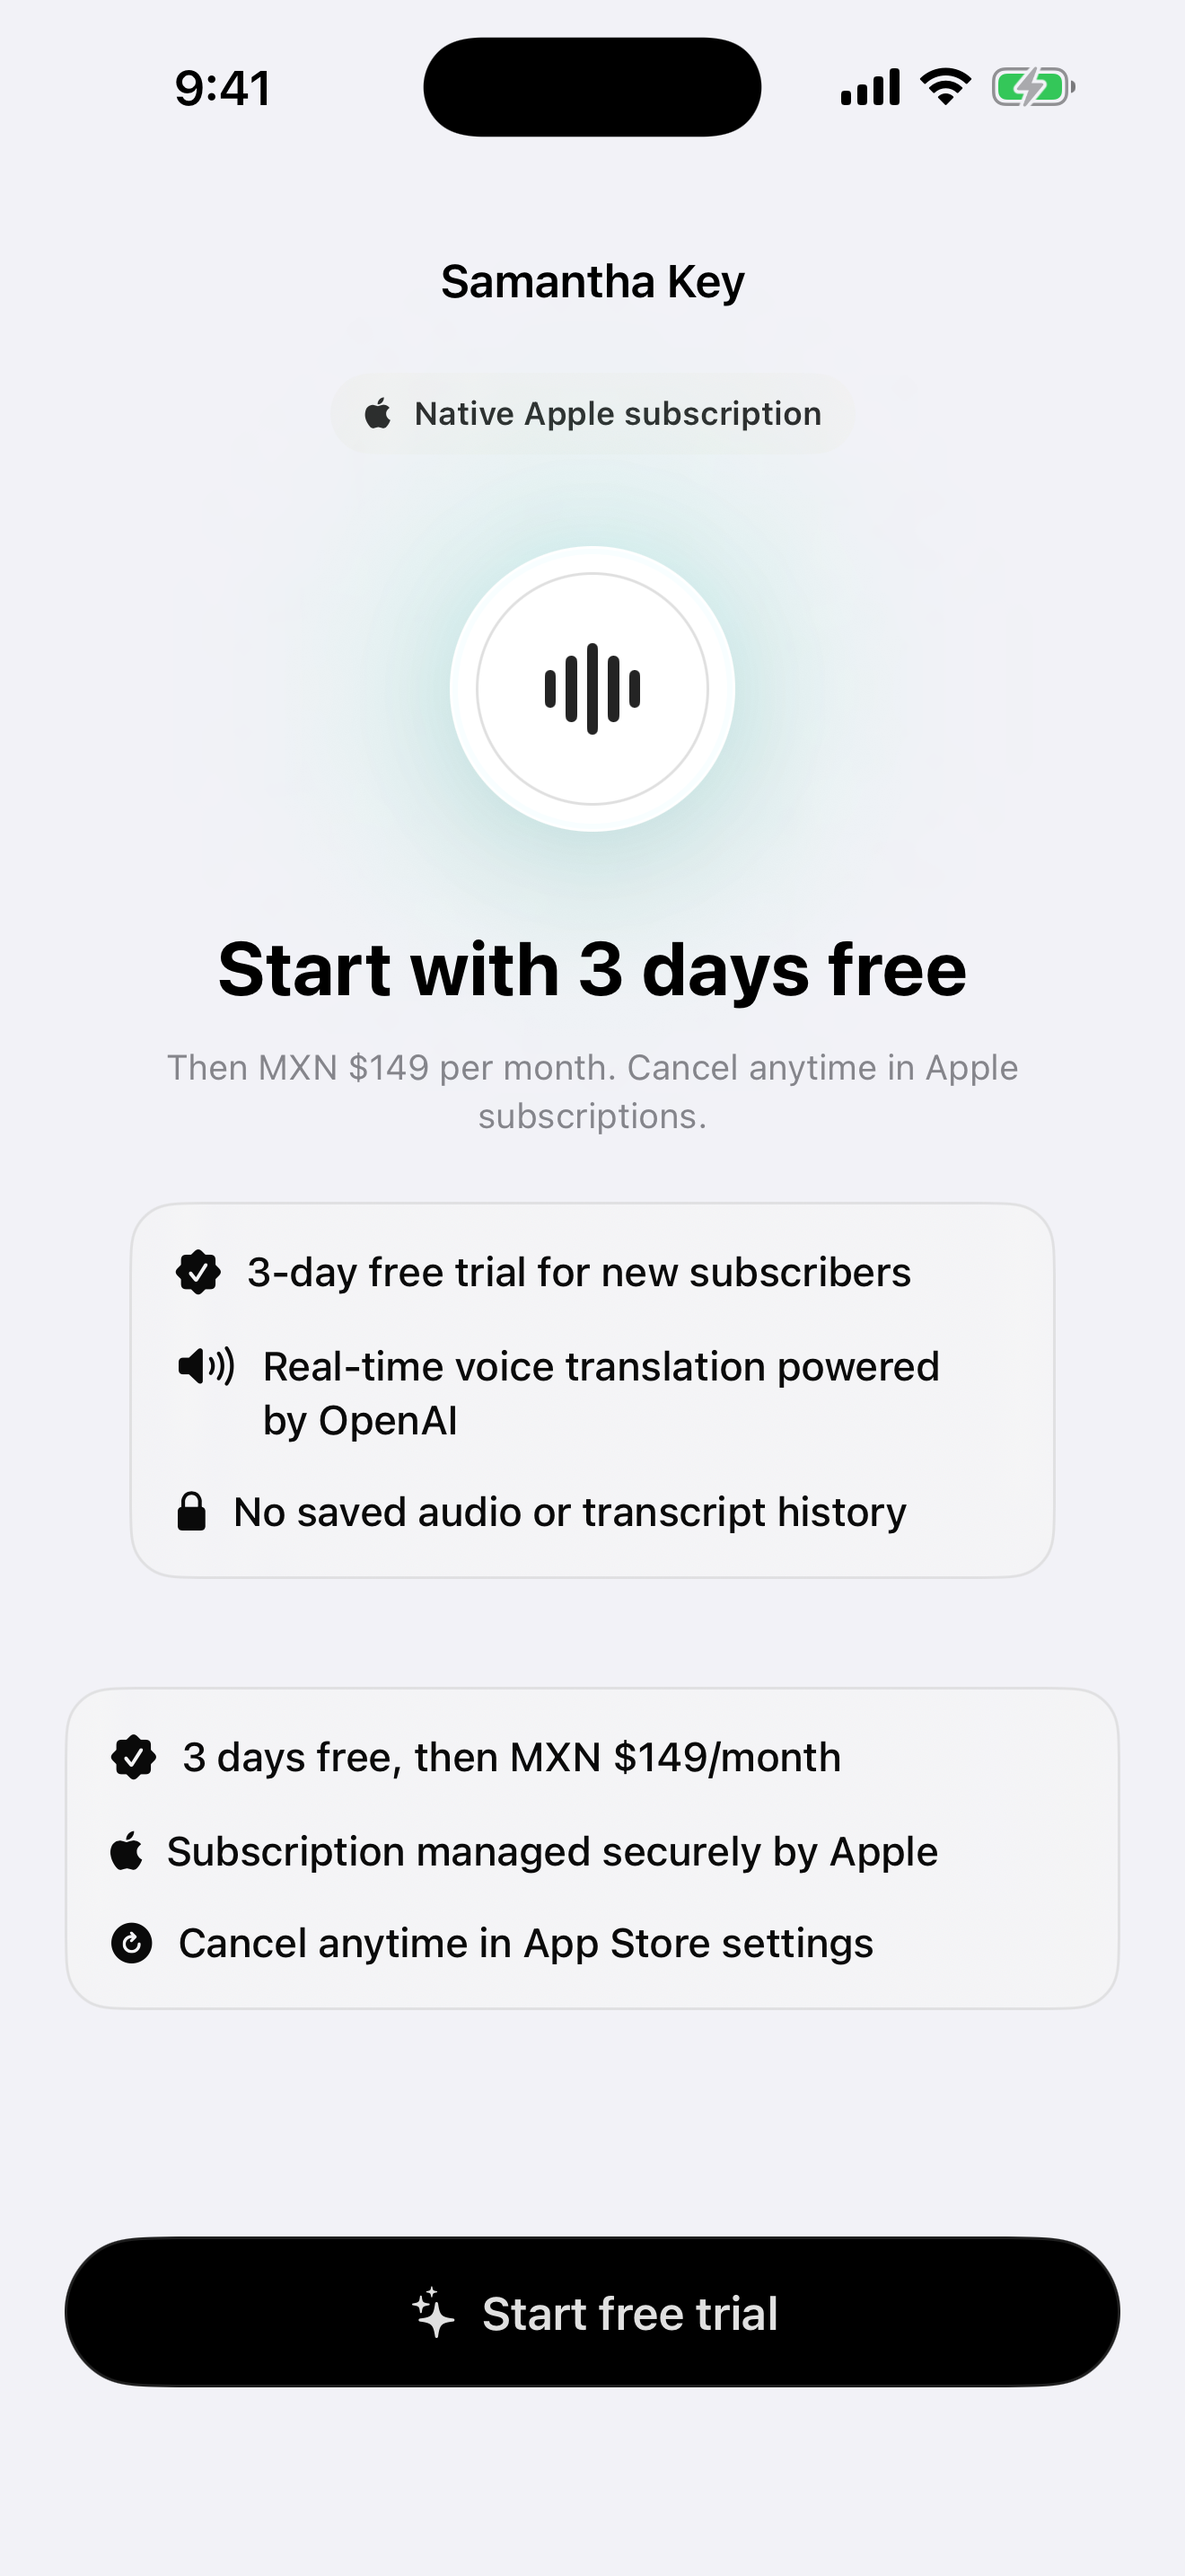
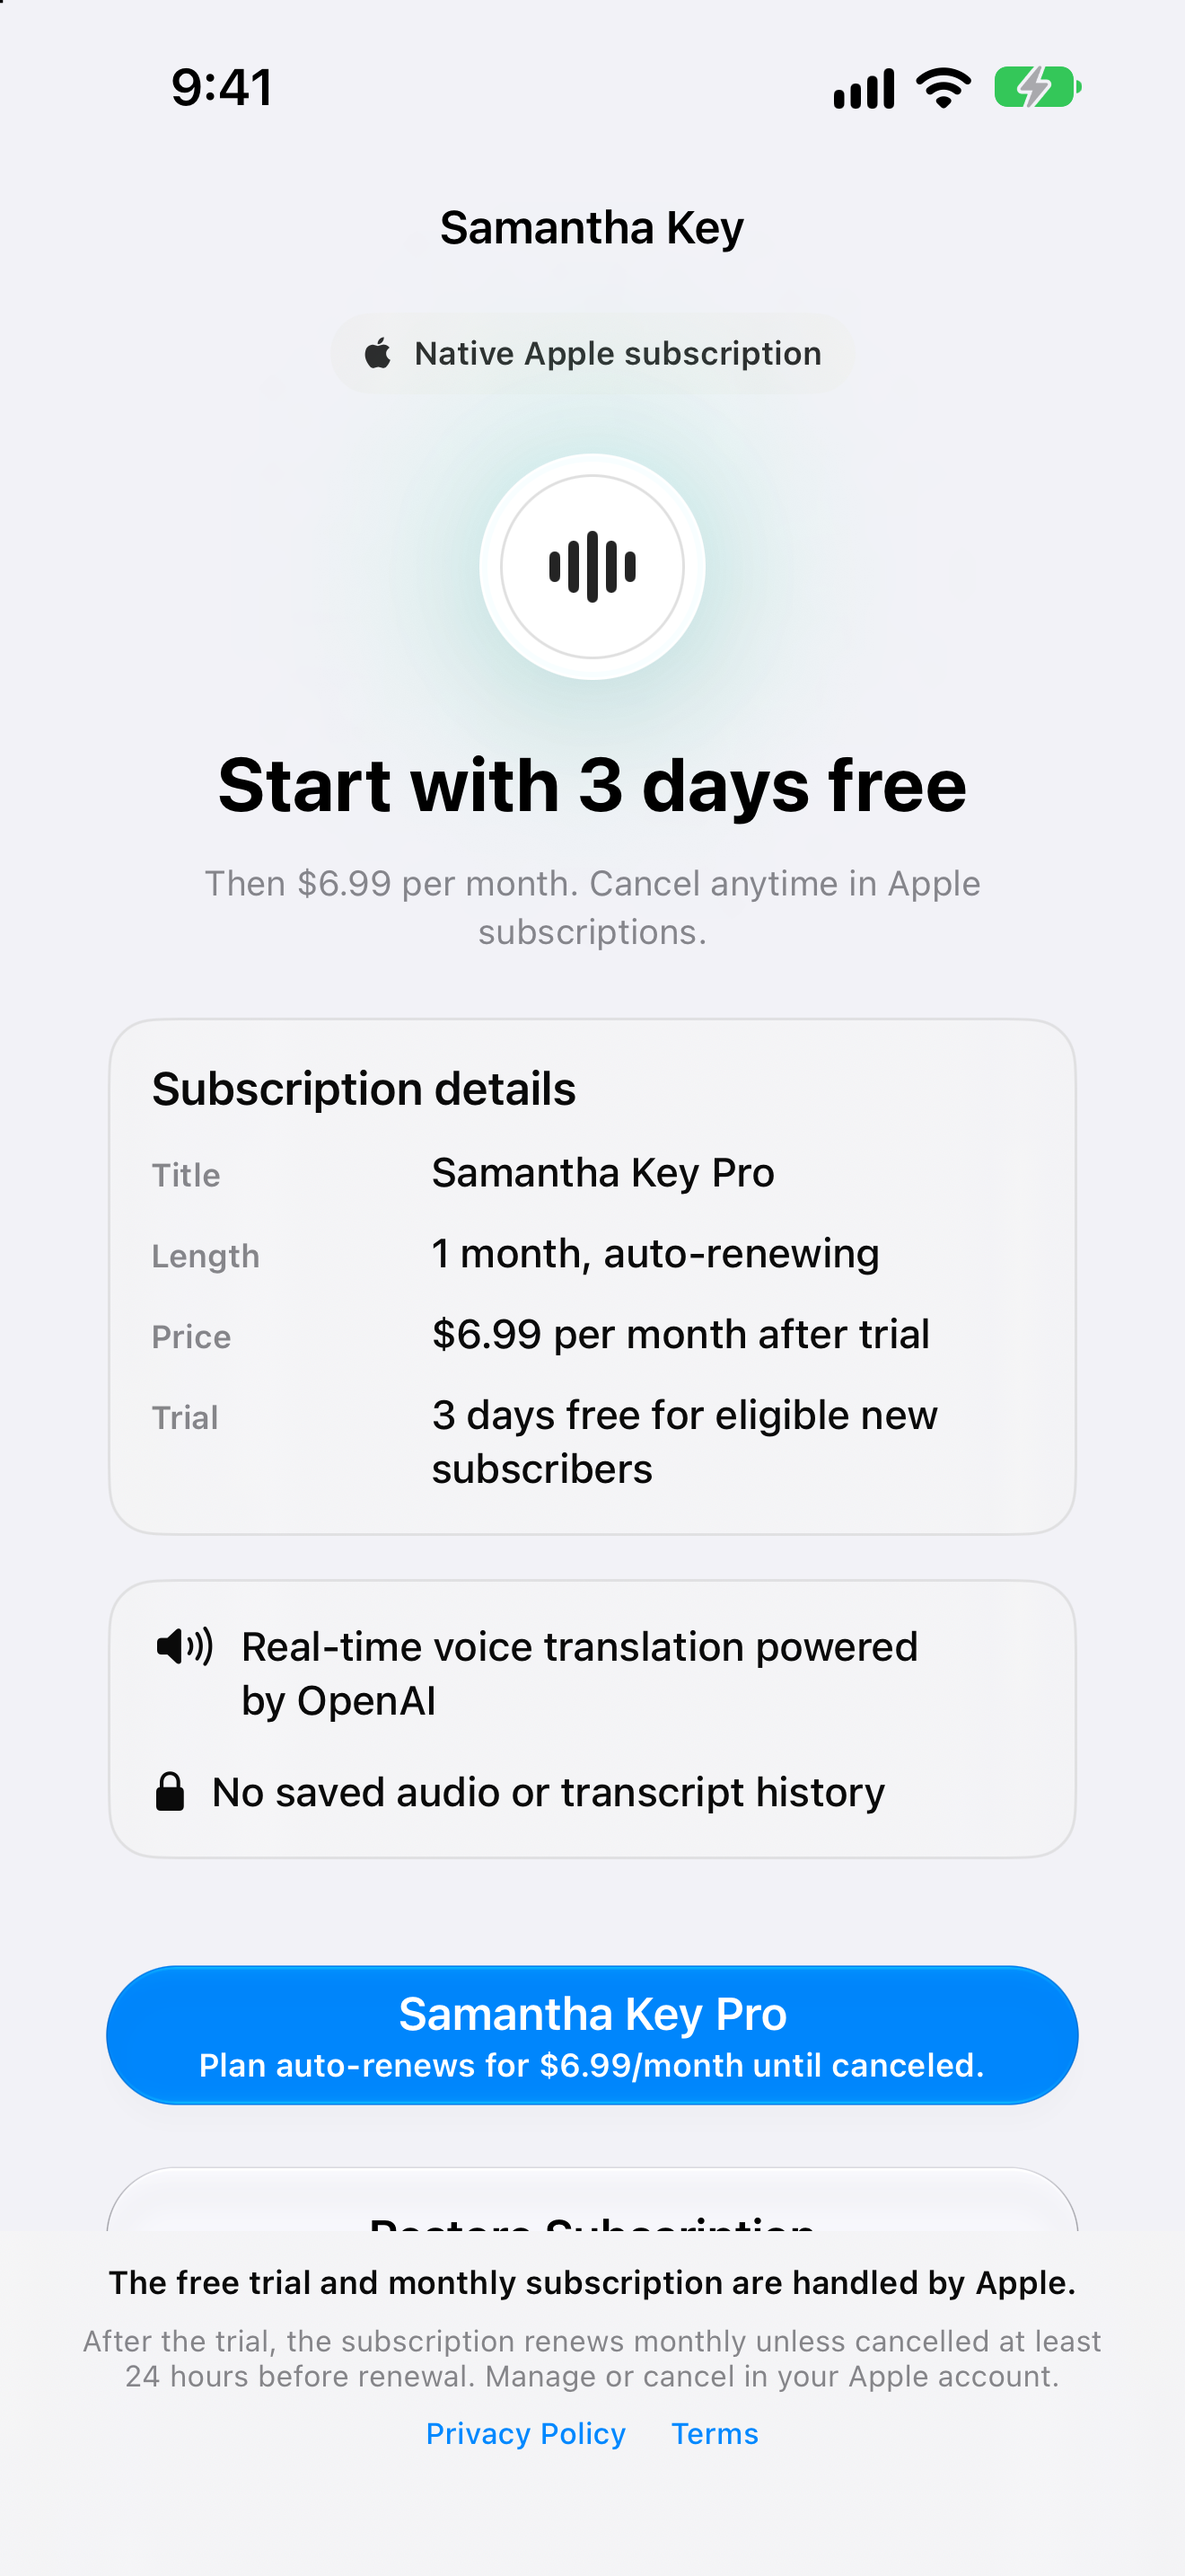
feat(screenshots): rebuild the 6.9-inch set from real app captures
- Raw captures of the shipping views on an iPhone 17 Pro Max simulator,
  including the real Samantha Key keyboard extension in Reminders.
- Slide 5 drops the fixed "MXN $149/month" claim; slide 4 matches the
  in-app "no transcript history" wording.
- render_69.py renders index.html at 1320x2868; manifests record sources
  and hashes. Ships with the next version (1.1.0 is in App Review).

diff --git a/AppStore/Screenshots/marketing/index.html b/AppStore/Screenshots/marketing/index.html
@@ -243,7 +243,7 @@
         {
           theme: "dark",
           label: "Private by design",
-          title: "No saved audio.<br />No saved <span class='accent'>transcripts.</span>",
+          title: "No saved audio.<br />No transcript <span class='accent'>history.</span>",
           sub: "Only operational subscription and usage records are kept to protect access and cost.",
           layout: "privacy",
           phone: "../raw/iphone-69/en-US/setup.png",
@@ -251,7 +251,7 @@
         {
           theme: "light",
           label: "3-day free trial",
-          title: "Try Pro free.<br /><span class='accent'>MXN $149/month.</span>",
+          title: "Try Pro free.<br /><span class='accent'>3 days on us.</span>",
           sub: "Subscriptions are managed by Apple. Cancel anytime from App Store settings.",
           layout: "single",
           phone: "../raw/iphone-69/en-US/paywall.png",

diff --git a/AppStore/Screenshots/marketing/render_69.py b/AppStore/Screenshots/marketing/render_69.py
@@ -1,0 +1,41 @@
+"""Render the iPhone 6.9-inch App Store screenshots from index.html with Playwright WebKit.
+
+usage: python3 render_69.py <output-dir>
+Writes 01.png ... 05.png at the exact App Store Connect sizes (1320x2868, APP_IPHONE_67 slot),
+flattened to RGB because App Store Connect rejects alpha channels.
+"""
+import sys
+from pathlib import Path
+
+from PIL import Image
+from playwright.sync_api import sync_playwright
+
+HERE = Path(__file__).resolve().parent
+SIZES = {"iphone-69": (1320, 2868)}
+SLIDES = ["iphone-69"] * 5
+
+
+def main(out_dir: Path) -> None:
+    out_dir.mkdir(parents=True, exist_ok=True)
+    with sync_playwright() as p:
+        browser = p.webkit.launch()
+        for index, canvas in enumerate(SLIDES):
+            width, height = SIZES[canvas]
+            page = browser.new_page(viewport={"width": width, "height": height}, device_scale_factor=1)
+            page.goto(f"{(HERE / 'index.html').as_uri()}?slide={index}")
+            # Wait until every capture is decoded and painted; a plain load check raced the paint.
+            page.evaluate("Promise.all(Array.from(document.images).map(i => i.decode()))")
+            page.evaluate("new Promise(r => requestAnimationFrame(() => requestAnimationFrame(r)))")
+            page.wait_for_timeout(300)
+            target = out_dir / f"{index + 1:02d}.png"
+            page.screenshot(path=str(target), clip={"x": 0, "y": 0, "width": width, "height": height})
+            page.close()
+            image = Image.open(target).convert("RGB")
+            assert image.size == (width, height), (target, image.size)
+            image.save(target, optimize=True)
+            print(target, image.size)
+        browser.close()
+
+
+if __name__ == "__main__":
+    main(Path(sys.argv[1]))

diff --git a/AppStore/Screenshots/screenshot-manifest.md b/AppStore/Screenshots/screenshot-manifest.md
@@ -1,24 +1,23 @@
 # Samantha Key App Store Screenshots
 
-- Generated: 2026-05-24T21:06:25Z
-- Device class: `APP_IPHONE_69`
-- Pixel size: `1320x2868`
-- Locale: `en-US`
-- Source: real simulator captures from `iPhone 17 Pro Max ASC`, iOS 26.4
-- Composition engine: `app-store-screenshots` workflow, rendered through a local Playwright HTML compositor
-- Submission bundle: `/Users/dr.alexmitre/Desktop/SamanthaKey/screenshots_bundle`
+## iPhone 6.9" (APP_IPHONE_69, 1320x2868) — rebuilt 2026-10-08
 
-## Slides
+- Source: real simulator captures of the shipping views on `SK 17 Pro Max QA` (iOS 27.0), app 1.1.1 (10) Debug, Xcode 27.1 RC.
+- Composition: `marketing/index.html` rendered by `marketing/render_69.py` (Playwright WebKit).
+- Raws: `raw/iphone-69/en-US/` (keyboard = real keyboard extension in Reminders).
+- Ships with the next version (1.1.0 is in App Review).
 
-1. `screenshots_bundle/en-US/iphone-69/01.png` — voice translation keyboard promise.
-2. `screenshots_bundle/en-US/iphone-69/02.png` — live translation workflow.
-3. `screenshots_bundle/en-US/iphone-69/03.png` — Apple-compliant keyboard handoff.
-4. `screenshots_bundle/en-US/iphone-69/04.png` — privacy/no saved audio.
-5. `screenshots_bundle/en-US/iphone-69/05.png` — trial and monthly subscription.
+1. Voice translation keyboard — real keyboard in Reminders.
+2. Live translation — translator with a sample translation.
+3. Keyboard handoff — recording screen plus the keyboard.
+4. Private by design — keyboard setup screen.
+5. 3-day free trial — real paywall with the storefront price.
 
-## Quality Gate
+## iPhone Duo (APP_IPHONE_DUO) — 2026-10-08
 
-- Dimensions verified with `sips`: all five images are `1320x2868`.
-- No raw simulator chrome outside the intended framed UI.
-- Product copy is truthful: keyboard microphone action opens the companion app because iOS keyboard extensions cannot record directly.
-- Subscription copy matches the intended model: 3-day free trial, then MXN $149/month through Apple.
+- Inner 2853x2007 (4) and cover 1398x2034 (1) from `raw/iphone-duo/en-US/`, composed by `marketing/duo.html` + `render_duo.py`. Uploaded with 1.1.0.
+
+## Quality gate
+
+- Dimensions and RGB (no alpha) verified with Pillow; Duo sizes checked against live App Store Connect specs.
+- Copy reviewed against in-app claims (no fixed price, "no transcript history").
